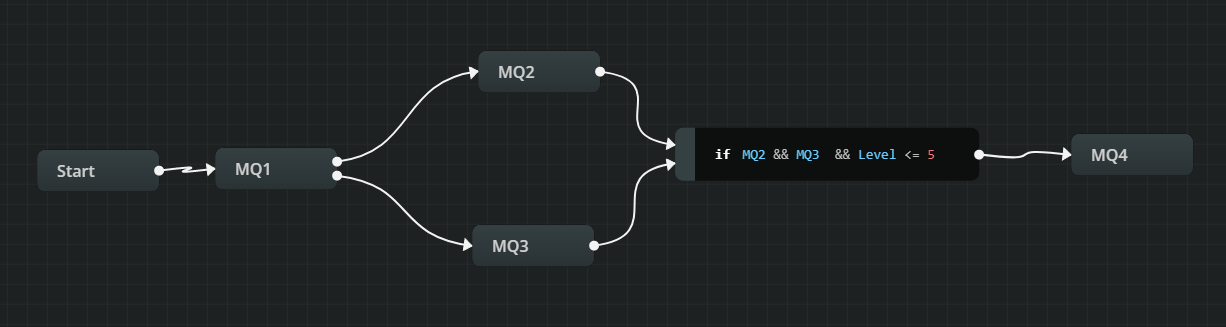
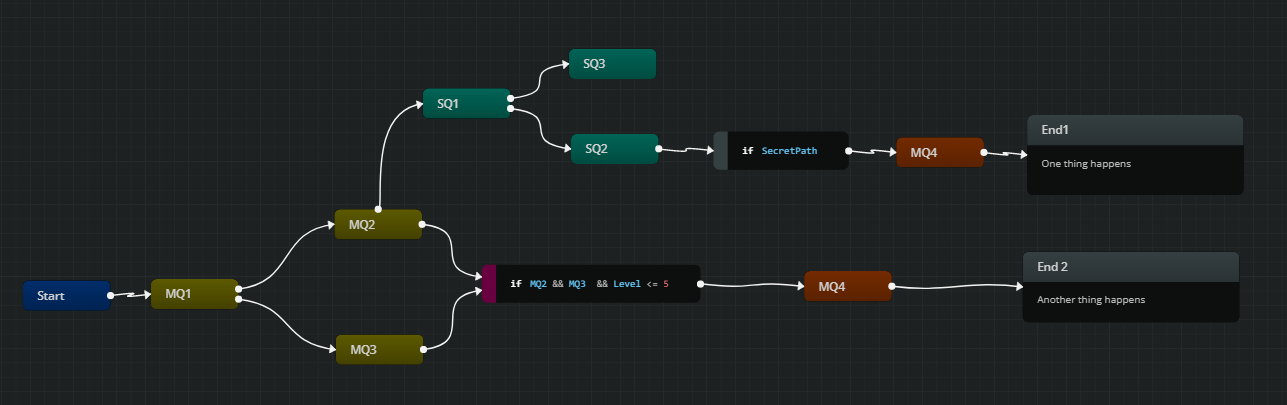
update

diff --git a/index.md b/index.md
@@ -11,7 +11,7 @@ so the desing process of the system gets simplified and avoid overcomplicated sy
 
 ## Writing
 
-Before start writing, the best aproach is to set what main parts the storyline, then add some related secondary quests to have a 
+Before start writing, the best aproach is to set what are the main parts the storyline, then add some related secondary quests to have a 
 general feling of the game storyline. This is usually better with a graphic representation.
 
 Stories must be crafted in such a way as to seamlessly integrate different medium forms. If done right, viewers forget they’re reading text, 
@@ -25,6 +25,9 @@ There are diferent aproaches to develope the progression of an interactive story
 
 
 ### Lineal Progression
+
+For lineal progression stories the quests are consecutive and dont have a complex code to handle events and keep track of the progress.
+Is very straight forward, one quest after another, even having secondary quest available on each point of the story, not infuencing the main progress. 
 
 ![https://www.artstation.com/artwork/g5NDx](./docs/assets/lineal.png)
 
